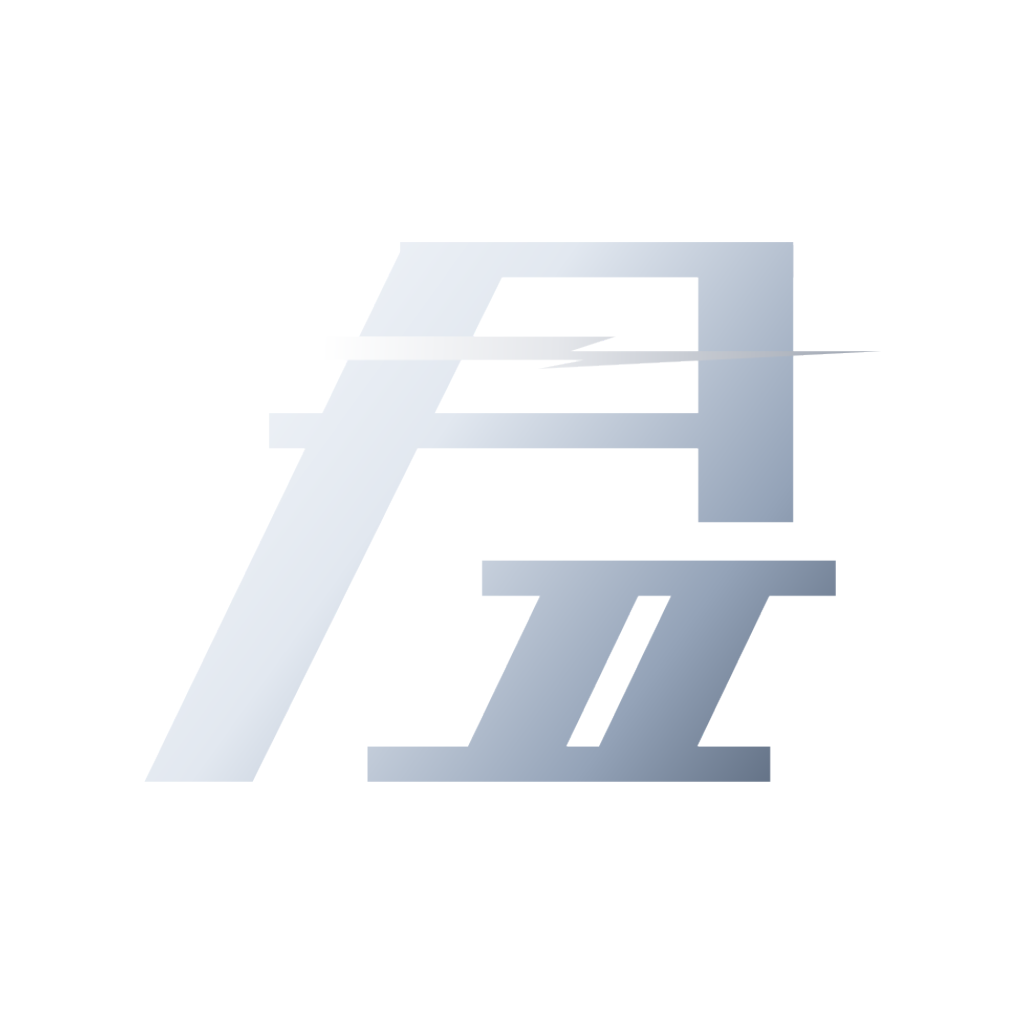
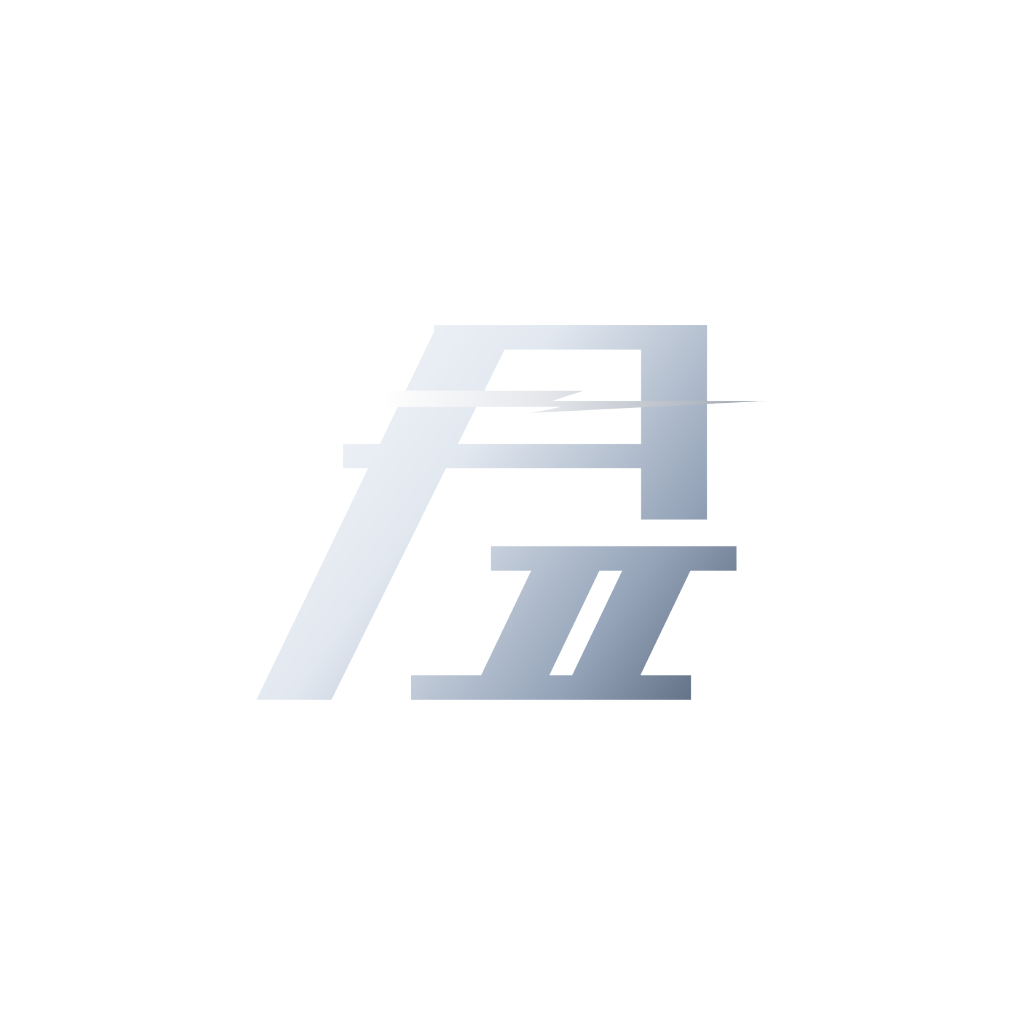
feat(brand): 支持独立 App 图标源
为品牌增加独立 launcher 图标配置，分别生成 iOS、Android 与 adaptive 资源，同时保持启动图和运行时 Logo 不变。

Changed region(s): [[0.125, 0.2188, 0.8125, 0.7812]]

diff --git a/scripts/lib/brand-config.js b/scripts/lib/brand-config.js
@@ -17,9 +17,9 @@ const GENERATED_BRAND_TS = 'src/shared/generated/brand.ts';
 const GENERATED_BRAND_ASSETS_TS = 'src/shared/generated/brandAssets.ts';
 const GENERATED_ASSET_MANIFEST_NAME = 'manifest.json';
 const ACTIVE_NATIVE_MANIFEST = '.generated/brand/native-active-manifest.json';
-const BRAND_ASSET_GENERATOR_VERSION = 5;
+const BRAND_ASSET_GENERATOR_VERSION = 8;
 const ICON_LOGO_SCALE = 0.76;
-const ADAPTIVE_ICON_LOGO_SCALE = 0.72;
+const ADAPTIVE_ICON_LOGO_SCALE = 0.5;
 const FAVICON_LOGO_SCALE = 0.72;
 const ANDROID_SPLASH_DENSITIES = [
   { directory: 'drawable-mdpi', multiplier: 1 },
@@ -203,6 +203,23 @@ function loadSharedBrandConfig(rootDir = process.cwd()) {
   return normalizeSharedBrandConfig(readJson(configPath));
 }
 
+function optionalBrandAssetPath(rootDir, brandRoot, manifest, key) {
+  const value = manifest[key];
+  if (value === undefined) {
+    return null;
+  }
+  if (typeof value !== 'string' || !value.trim()) {
+    throw new Error(`Brand manifest field "${key}" must be a non-empty relative file path.`);
+  }
+
+  const assetPath = path.resolve(brandRoot, value.trim());
+  const relativeToBrand = path.relative(brandRoot, assetPath);
+  if (relativeToBrand.startsWith('..') || path.isAbsolute(relativeToBrand)) {
+    throw new Error(`Brand manifest field "${key}" must stay inside ${repoRelative(rootDir, brandRoot)}.`);
+  }
+  return repoRelative(rootDir, assetPath);
+}
+
 function normalizeManifest(rootDir, brandRoot, manifest, sharedConfig, i18n, appVersion) {
   const id = requireString(manifest, 'id').toLowerCase();
   if (!BRAND_ID_PATTERN.test(id)) {
@@ -260,7 +277,8 @@ function normalizeManifest(rootDir, brandRoot, manifest, sharedConfig, i18n, app
     i18n,
     generatedAssets,
     source: {
-      brandRoot: repoRelative(rootDir, brandRoot)
+      brandRoot: repoRelative(rootDir, brandRoot),
+      appIcon: optionalBrandAssetPath(rootDir, brandRoot, manifest, 'appIcon')
     }
   };
 }
@@ -427,8 +445,27 @@ function readRequiredLogoSource(rootDir, brand) {
   };
 }
 
-function brandAssetFingerprint(brand, logoHash) {
+function readOptionalAppIconSource(rootDir, brand) {
+  if (!brand.source.appIcon) {
+    return null;
+  }
+
+  const appIconPath = path.join(rootDir, brand.source.appIcon);
+  if (!fs.existsSync(appIconPath)) {
+    throw new Error(`Brand app icon source not found: ${repoRelative(rootDir, appIconPath)}`);
+  }
+
+  const bytes = fs.readFileSync(appIconPath);
+  return {
+    bytes,
+    hash: crypto.createHash('sha256').update(bytes).digest('hex'),
+    path: appIconPath
+  };
+}
+
+function brandAssetFingerprint(brand, logoHash, appIconHash) {
   return hashStableJson({
+    appIcon: appIconHash,
     assetGenerator: BRAND_ASSET_GENERATOR_VERSION,
     logo: logoHash,
     visual: brand.visual
@@ -443,9 +480,10 @@ function brandNativeSplashImageFingerprint(brand, logoHash) {
   });
 }
 
-function brandNativeLauncherImageFingerprint(brand, logoHash) {
+function brandNativeLauncherImageFingerprint(brand, logoHash, appIconHash) {
   return hashStableJson({
     adaptiveIconBackgroundColor: brand.android.adaptiveIconBackgroundColor,
+    appIcon: appIconHash,
     assetGenerator: BRAND_ASSET_GENERATOR_VERSION,
     logo: logoHash,
     visual: brand.visual
@@ -1156,16 +1194,34 @@ function createLogoForegroundPng(logo, size, scale) {
   return encodePng(png);
 }
 
+function createFullBleedAppIconPng(appIcon, size) {
+  const png = createPng(size);
+  drawPngFit(png, appIcon, size, size);
+  return encodePng(png);
+}
+
+function createLauncherIconPng(brand, logo, appIcon, size) {
+  return appIcon
+    ? createFullBleedAppIconPng(appIcon, size)
+    : createLogoIconPng(brand, logo, size, ICON_LOGO_SCALE);
+}
+
+function createAdaptiveIconPng(logo, appIcon, size) {
+  return appIcon
+    ? createFullBleedAppIconPng(appIcon, size)
+    : createLogoForegroundPng(logo, size, ADAPTIVE_ICON_LOGO_SCALE);
+}
+
 function createLogoSplashPng(logo, canvasSize, imageSize) {
   const png = createPng(canvasSize);
   drawPngFit(png, logo, imageSize, imageSize);
   return encodePng(png);
 }
 
-function writeGeneratedAssets(rootDir, brand, logo) {
+function writeGeneratedAssets(rootDir, brand, logo, appIcon) {
   const assetRoot = path.dirname(path.join(rootDir, brand.generatedAssets.icon));
-  const icon = createLogoIconPng(brand, logo, 1024, ICON_LOGO_SCALE);
-  const adaptiveIcon = createLogoForegroundPng(logo, 1024, ADAPTIVE_ICON_LOGO_SCALE);
+  const icon = createLauncherIconPng(brand, logo, appIcon, 1024);
+  const adaptiveIcon = createAdaptiveIconPng(logo, appIcon, 1024);
   const favicon = createLogoIconPng(brand, logo, 64, FAVICON_LOGO_SCALE);
   writeFileIfChanged(path.join(assetRoot, 'icon.png'), icon);
   writeFileIfChanged(path.join(assetRoot, 'adaptive-icon.png'), adaptiveIcon);
@@ -1201,7 +1257,7 @@ function writeAndroidAdaptiveIconXml(filePath) {
   );
 }
 
-function writeAndroidLauncherImageResources(rootDir, brand, logo) {
+function writeAndroidLauncherImageResources(rootDir, brand, logo, appIcon) {
   const androidMainPath = path.join(rootDir, 'android', 'app', 'src', 'main');
   if (!fs.existsSync(androidMainPath)) {
     return;
@@ -1212,15 +1268,15 @@ function writeAndroidLauncherImageResources(rootDir, brand, logo) {
     const directory = path.join(androidMainPath, 'res', density.directory);
     writeFileIfChanged(
       path.join(directory, 'ic_launcher.webp'),
-      createLogoIconPng(brand, logo, density.iconSize, ICON_LOGO_SCALE)
+      createLauncherIconPng(brand, logo, appIcon, density.iconSize)
     );
     writeFileIfChanged(
       path.join(directory, 'ic_launcher_round.webp'),
-      createLogoIconPng(brand, logo, density.iconSize, ICON_LOGO_SCALE)
+      createLauncherIconPng(brand, logo, appIcon, density.iconSize)
     );
     writeFileIfChanged(
       path.join(directory, 'ic_launcher_foreground.webp'),
-      createLogoForegroundPng(logo, density.foregroundSize, ADAPTIVE_ICON_LOGO_SCALE)
+      createAdaptiveIconPng(logo, appIcon, density.foregroundSize)
     );
   }
 
@@ -1253,7 +1309,7 @@ function iosIconPixelSize(image) {
   return 1024;
 }
 
-function writeIosAppIconResources(rootDir, brand, logo) {
+function writeIosAppIconResources(rootDir, brand, logo, appIcon) {
   for (const assetCatalogPath of iosAppAssetCatalogDirectories(rootDir)) {
     const appIconSetPath = path.join(assetCatalogPath, 'AppIcon.appiconset');
     const contentsPath = path.join(appIconSetPath, 'Contents.json');
@@ -1269,7 +1325,7 @@ function writeIosAppIconResources(rootDir, brand, logo) {
       }
       writeFileIfChanged(
         path.join(appIconSetPath, image.filename),
-        createLogoIconPng(brand, logo, iosIconPixelSize(image), ICON_LOGO_SCALE)
+        createLauncherIconPng(brand, logo, appIcon, iosIconPixelSize(image))
       );
     }
   }
@@ -1570,9 +1626,9 @@ function writeNativeSplashImageResources(rootDir, brand, logo) {
   writeIosSplashImageResources(rootDir, brand, logo);
 }
 
-function writeNativeLauncherImageResources(rootDir, brand, logo) {
-  writeAndroidLauncherImageResources(rootDir, brand, logo);
-  writeIosAppIconResources(rootDir, brand, logo);
+function writeNativeLauncherImageResources(rootDir, brand, logo, appIcon) {
+  writeAndroidLauncherImageResources(rootDir, brand, logo, appIcon);
+  writeIosAppIconResources(rootDir, brand, logo, appIcon);
 }
 
 function writeNativeTextResources(rootDir, brand) {
@@ -1591,11 +1647,16 @@ function syncBrandArtifacts({
   const brand = loadBrandConfig(rootDir, brandId, appVersion);
   const brands = loadAllBrandConfigs(rootDir, appVersion);
   const logoSource = readRequiredLogoSource(rootDir, brand);
+  const appIconSource = readOptionalAppIconSource(rootDir, brand);
   const fingerprints = {
     runtime: brandRuntimeFingerprint(brands),
-    asset: brandAssetFingerprint(brand, logoSource.hash),
+    asset: brandAssetFingerprint(brand, logoSource.hash, appIconSource?.hash ?? null),
     nativeSplashImage: brandNativeSplashImageFingerprint(brand, logoSource.hash),
-    nativeLauncherImage: brandNativeLauncherImageFingerprint(brand, logoSource.hash),
+    nativeLauncherImage: brandNativeLauncherImageFingerprint(
+      brand,
+      logoSource.hash,
+      appIconSource?.hash ?? null
+    ),
     nativeText: brandNativeTextFingerprint(brand)
   };
   const manifest = readGeneratedManifest(rootDir, brand);
@@ -1613,17 +1674,21 @@ function syncBrandArtifacts({
     ? force || !areNativeTextsCurrent(activeNativeManifest, rootDir, brand, fingerprints.nativeText)
     : false;
   const logo =
-    shouldWriteGeneratedAssets || shouldWriteNativeSplashImages || shouldWriteNativeLauncherImages
+    shouldWriteGeneratedAssets || shouldWriteNativeSplashImages || (shouldWriteNativeLauncherImages && !appIconSource)
       ? decodePng(logoSource.bytes, logoSource.path)
       : null;
+  const appIcon =
+    appIconSource && (shouldWriteGeneratedAssets || shouldWriteNativeLauncherImages)
+      ? decodePng(appIconSource.bytes, appIconSource.path)
+      : null;
   if (shouldWriteGeneratedAssets) {
-    writeGeneratedAssets(rootDir, brand, logo);
+    writeGeneratedAssets(rootDir, brand, logo, appIcon);
   }
   if (shouldWriteNativeSplashImages) {
     writeNativeSplashImageResources(rootDir, brand, logo);
   }
   if (shouldWriteNativeLauncherImages) {
-    writeNativeLauncherImageResources(rootDir, brand, logo);
+    writeNativeLauncherImageResources(rootDir, brand, logo, appIcon);
   }
   if (shouldWriteNativeText) {
     writeNativeTextResources(rootDir, brand);
